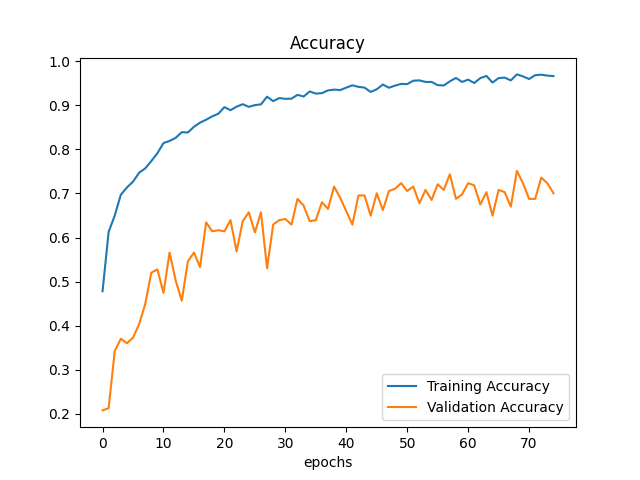
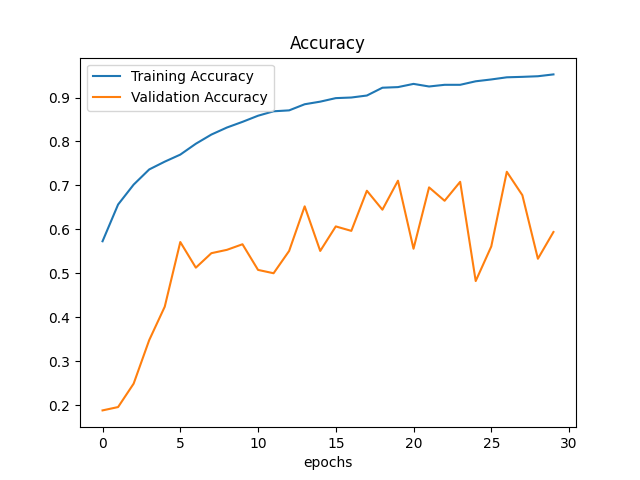
Failed Model Training

diff --git a/project/src/models/CNN_model2.py b/project/src/models/CNN_model2.py
@@ -9,56 +9,51 @@ class Model:
         callback = tf.keras.callbacks.EarlyStopping(monitor='loss', patience=3)  # patience given in paper
 
         # Build a CNN model
-        model_1 = tf.keras.models.Sequential([
+        model_1 = tf.keras.Sequential()
+        model_1.add(tf.keras.layers.Conv2D(filters=64, kernel_size=7, padding='Same', activation='relu',
+                          input_shape=(256, 256, 1)))
+        model_1.add(tf.keras.layers.MaxPool2D(pool_size=(2, 2)))
+        model_1.add(tf.keras.layers.BatchNormalization())
 
-            # 1.
-            tf.keras.layers.Conv2D(filters=16,
-                                   kernel_size=3,
-                                   activation="relu",
-                                   input_shape=(256, 256, 1)),
-            tf.keras.layers.Dropout(0.50),
-            tf.keras.layers.MaxPool2D(pool_size=2,
-                                      padding="Same"),
+        model_1.add(tf.keras.layers.Conv2D(filters=128, kernel_size=7, padding='Same', activation='relu'))
+        model_1.add(tf.keras.layers.MaxPool2D(pool_size=(2, 2)))
+        model_1.add(tf.keras.layers.BatchNormalization())
 
-            # 2.
-            tf.keras.layers.Conv2D(filters=32,
-                                   kernel_size=3,
-                                   activation="relu"),
-            tf.keras.layers.Dropout(0.50),
-            tf.keras.layers.MaxPool2D(pool_size=2,
-                                      padding="Same"),
+        model_1.add(tf.keras.layers.Conv2D(filters=128, kernel_size=7, padding='Same', activation='relu'))
+        model_1.add(tf.keras.layers.MaxPool2D(pool_size=(2, 2)))
+        model_1.add(tf.keras.layers.BatchNormalization())
 
-            # 3.
-            tf.keras.layers.Conv2D(filters=64,
-                                   kernel_size=3,
-                                   activation="relu"),
-            tf.keras.layers.Dropout(0.50),
-            tf.keras.layers.MaxPool2D(pool_size=2,
-                                      padding="Same"),
+        model_1.add(tf.keras.layers.Conv2D(filters=256, kernel_size=7, padding='Same', activation='relu'))
+        model_1.add(tf.keras.layers.MaxPool2D(pool_size=(2, 2)))
+        model_1.add(tf.keras.layers.BatchNormalization())
 
-            # 4.
-            tf.keras.layers.Conv2D(filters=128,
-                                   kernel_size=3,
-                                   activation="relu"),
-            tf.keras.layers.Dropout(0.50),
-            tf.keras.layers.MaxPool2D(pool_size=2,
-                                      padding="Same"),
+        model_1.add(tf.keras.layers.Conv2D(filters=256, kernel_size=7, padding='Same', activation='relu'))
+        model_1.add(tf.keras.layers.MaxPool2D(pool_size=(2, 2)))
+        model_1.add(tf.keras.layers.BatchNormalization())
 
-            tf.keras.layers.Flatten(),
-            tf.keras.layers.Dense(1028),
-            tf.keras.layers.Dense(4, activation="softmax")])
+        model_1.add(tf.keras.layers.Conv2D(filters=512, kernel_size=7, padding='Same', activation='relu'))
+        model_1.add(tf.keras.layers.MaxPool2D(pool_size=(2, 2)))
+        model_1.add(tf.keras.layers.BatchNormalization())
+
+        model_1.add(tf.keras.layers.Flatten())
+        model_1.add(tf.keras.layers.Dense(1024, activation="relu"))
+        model_1.add(tf.keras.layers.Dropout(0.2))
+
+        model_1.add(tf.keras.layers.Dense(512, activation="relu"))
+        model_1.add(tf.keras.layers.Dropout(0.2))
+
+        model_1.add(tf.keras.layers.Dense(4, activation="softmax"))
 
         # Compile the model
-
         model_1.compile(loss="categorical_crossentropy",
-                        optimizer=tf.keras.optimizers.Adam(),
+                        optimizer=tf.keras.optimizers.SGD(lr = 0.01),
                         metrics=['accuracy'])
 
         model_1.summary()
 
         # Fit the model
 
-        history_1 = model_1.fit(self.train_data_augmented, epochs=15,
+        history_1 = model_1.fit(self.train_data_augmented, epochs=30,
                                 steps_per_epoch=len(self.train_data_augmented),
                                 validation_data=self.test_data,
                                 validation_steps=len(self.test_data),

diff --git a/project/src/features/modify.py b/project/src/features/modify.py
@@ -34,7 +34,7 @@ class ModifyBuild:
         train_data_augmented = train_datagen_augmented.flow_from_directory(train_dir,
                                                                            target_size=(256, 256),
                                                                            class_mode="categorical",
-                                                                           batch_size=16,
+                                                                           batch_size=32,
                                                                            shuffle=True,
                                                                            color_mode="grayscale",
                                                                            seed=44)
@@ -42,7 +42,7 @@ class ModifyBuild:
         test_data = test_datagen.flow_from_directory(test_dir,
                                                      target_size=(256,256),
                                                      class_mode="categorical",
-                                                     batch_size=16,
+                                                     batch_size=32,
                                                      color_mode="grayscale",
                                                      seed=44)
 
